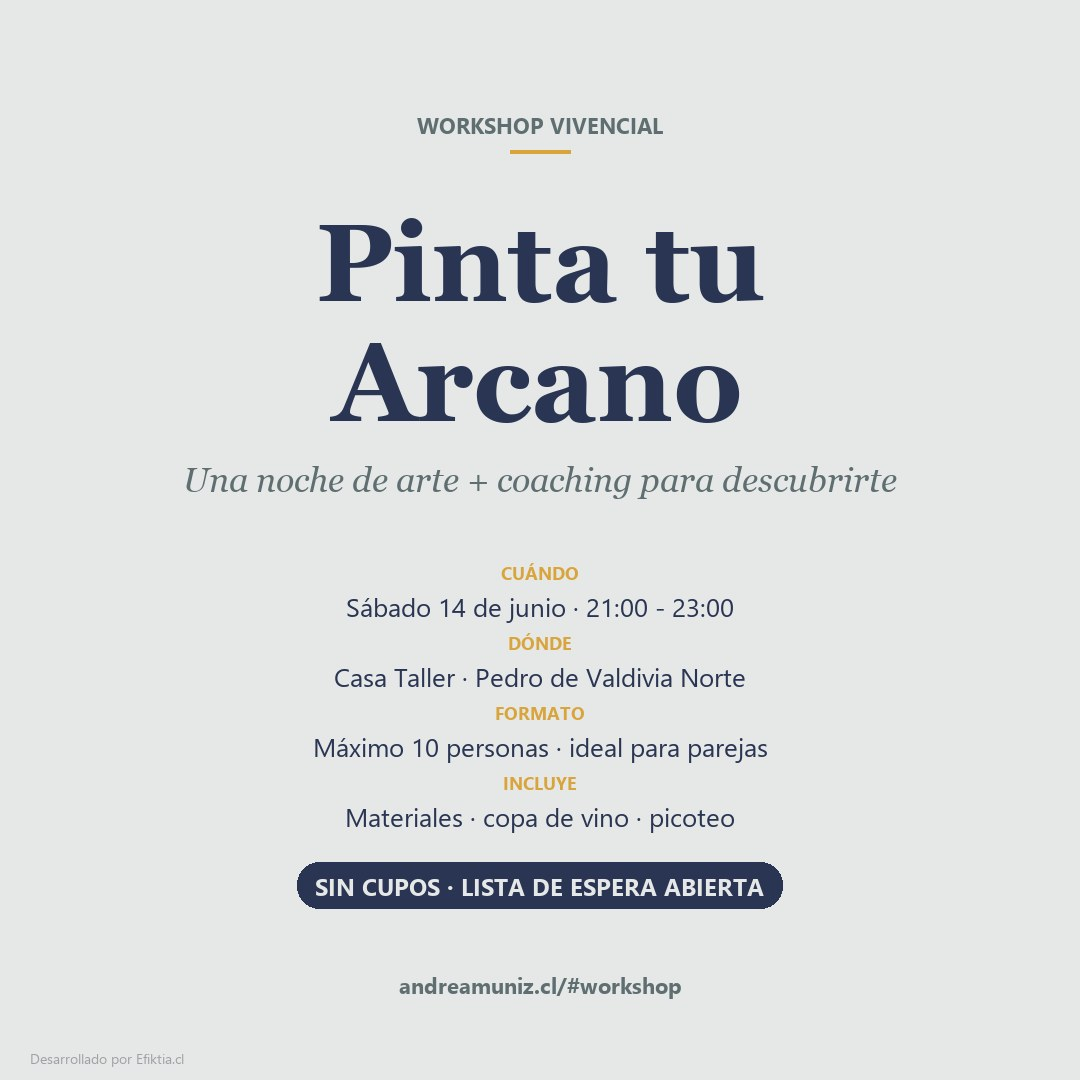
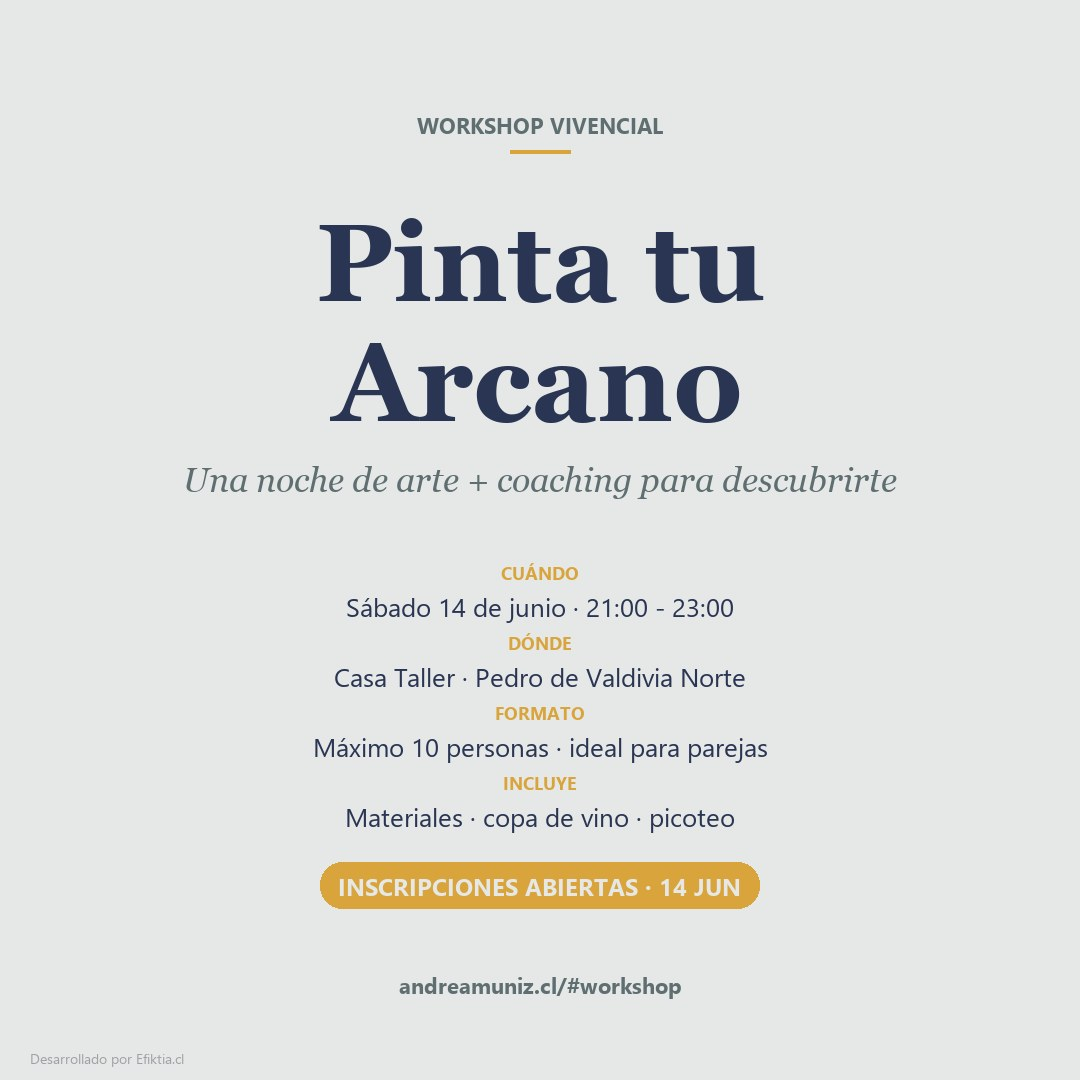
Workshop Pinta tu Arcano: AGOTADO → INSCRIPCIONES ABIERTAS
Cambio de estado del workshop según indicación del cliente.

Landing (sección Workshop):
- Badge "Agotado" (coral, alarma) → "Cupos abiertos" (sage-pale, abierto)
- "Sin cupos disponibles" → "Inscripciones abiertas"
- Botón "Anotarme en lista de espera →" → "Reservar mi cupo →"
- Mensaje pre-cargado WhatsApp ajustado: "anotarme en lista de espera"
  → "me interesa inscribirme al workshop"

Post Instagram #9:
- Badge "SIN CUPOS · LISTA DE ESPERA ABIERTA" sobre fondo navy
  → "INSCRIPCIONES ABIERTAS · 14 JUN" sobre fondo earth-warm (ocre)
- Color del badge cambia de navy (institucional) a earth (cálido,
  invita a reservar)

WORKSHOPS.md y WHATSAPP_BUSINESS.md no requieren cambio (sus
referencias a "agotado/lista de espera" son ejemplos genéricos del
sistema, no específicas a este workshop).

Changed region(s): [[0.275, 0.7944, 0.7333, 0.8556]]

diff --git a/Andrea_Muniz_Completo_v2.html b/Andrea_Muniz_Completo_v2.html
@@ -1501,11 +1501,11 @@
       <!-- MEJORA: Workshop "Pinta tu Arcano" con horario nocturno, incluye vino y picoteo -->
       <article class="ws-card ws-card-featured">
         <div class="ws-card-header">
-          <span class="ws-badge" style="background:var(--coral-pale);color:var(--coral);border-color:var(--coral)">
+          <span class="ws-badge ws-badge-open">
             <svg class="icon icon-xs" viewBox="0 0 24 24" aria-hidden="true"><path d="M7 3h10M7 21h10M7 3v3a5 5 0 0 0 10 0V3M7 21v-3a5 5 0 0 1 10 0v3"/></svg>
-            Agotado
+            Cupos abiertos
           </span>
-          <span class="ws-cupos" style="color:var(--coral)">Sin cupos disponibles</span>
+          <span class="ws-cupos">Inscripciones abiertas</span>
         </div>
         <div class="ws-card-body">
           <div class="ws-date-block" aria-hidden="true">
@@ -1524,8 +1524,8 @@
             </div>
             <p class="ws-desc">Un sábado por la noche, una actividad con tu pareja, en la que descubres tu arcano mayor y reconectas con la creatividad desde adentro. Combina ejercicios de coaching con creación artística guiada. No se requiere experiencia previa.</p>
             <div style="display:flex;gap:10px;flex-wrap:wrap;margin-top:16px">
-              <a href="#" onclick="showFrame('workshop');return false;" class="btn btn-ghost">Anotarme en lista de espera →</a>
-              <a href="https://wa.me/56900000000?text=Hola%20Andrea%2C%20quiero%20anotarme%20en%20la%20lista%20de%20espera%20del%20workshop%20Pinta%20tu%20Arcano.%20Te%20escribo%20desde%20andreamuniz.cl" class="btn btn-ghost" target="_blank" rel="noopener">
+              <a href="#" onclick="showFrame('workshop');return false;" class="btn btn-ghost">Reservar mi cupo →</a>
+              <a href="https://wa.me/56900000000?text=Hola%20Andrea%2C%20me%20interesa%20inscribirme%20al%20workshop%20Pinta%20tu%20Arcano.%20Te%20escribo%20desde%20andreamuniz.cl" class="btn btn-ghost" target="_blank" rel="noopener">
                 <svg class="icon icon-sm" viewBox="0 0 24 24" aria-hidden="true"><path d="M20 15a3 3 0 0 1-3 3H9l-5 4V6a3 3 0 0 1 3-3h10a3 3 0 0 1 3 3v9z"/></svg>
                 WhatsApp
               </a>

diff --git a/public/index.html b/public/index.html
@@ -1501,11 +1501,11 @@
       <!-- MEJORA: Workshop "Pinta tu Arcano" con horario nocturno, incluye vino y picoteo -->
       <article class="ws-card ws-card-featured">
         <div class="ws-card-header">
-          <span class="ws-badge" style="background:var(--coral-pale);color:var(--coral);border-color:var(--coral)">
+          <span class="ws-badge ws-badge-open">
             <svg class="icon icon-xs" viewBox="0 0 24 24" aria-hidden="true"><path d="M7 3h10M7 21h10M7 3v3a5 5 0 0 0 10 0V3M7 21v-3a5 5 0 0 1 10 0v3"/></svg>
-            Agotado
+            Cupos abiertos
           </span>
-          <span class="ws-cupos" style="color:var(--coral)">Sin cupos disponibles</span>
+          <span class="ws-cupos">Inscripciones abiertas</span>
         </div>
         <div class="ws-card-body">
           <div class="ws-date-block" aria-hidden="true">
@@ -1524,8 +1524,8 @@
             </div>
             <p class="ws-desc">Un sábado por la noche, una actividad con tu pareja, en la que descubres tu arcano mayor y reconectas con la creatividad desde adentro. Combina ejercicios de coaching con creación artística guiada. No se requiere experiencia previa.</p>
             <div style="display:flex;gap:10px;flex-wrap:wrap;margin-top:16px">
-              <a href="#" onclick="showFrame('workshop');return false;" class="btn btn-ghost">Anotarme en lista de espera →</a>
-              <a href="https://wa.me/56985028131?text=Hola%20Andrea%2C%20quiero%20anotarme%20en%20la%20lista%20de%20espera%20del%20workshop%20Pinta%20tu%20Arcano.%20Te%20escribo%20desde%20andreamuniz.cl" class="btn btn-ghost" target="_blank" rel="noopener">
+              <a href="#" onclick="showFrame('workshop');return false;" class="btn btn-ghost">Reservar mi cupo →</a>
+              <a href="https://wa.me/56985028131?text=Hola%20Andrea%2C%20me%20interesa%20inscribirme%20al%20workshop%20Pinta%20tu%20Arcano.%20Te%20escribo%20desde%20andreamuniz.cl" class="btn btn-ghost" target="_blank" rel="noopener">
                 <svg class="icon icon-sm" viewBox="0 0 24 24" aria-hidden="true"><path d="M20 15a3 3 0 0 1-3 3H9l-5 4V6a3 3 0 0 1 3-3h10a3 3 0 0 1 3 3v9z"/></svg>
                 WhatsApp
               </a>
